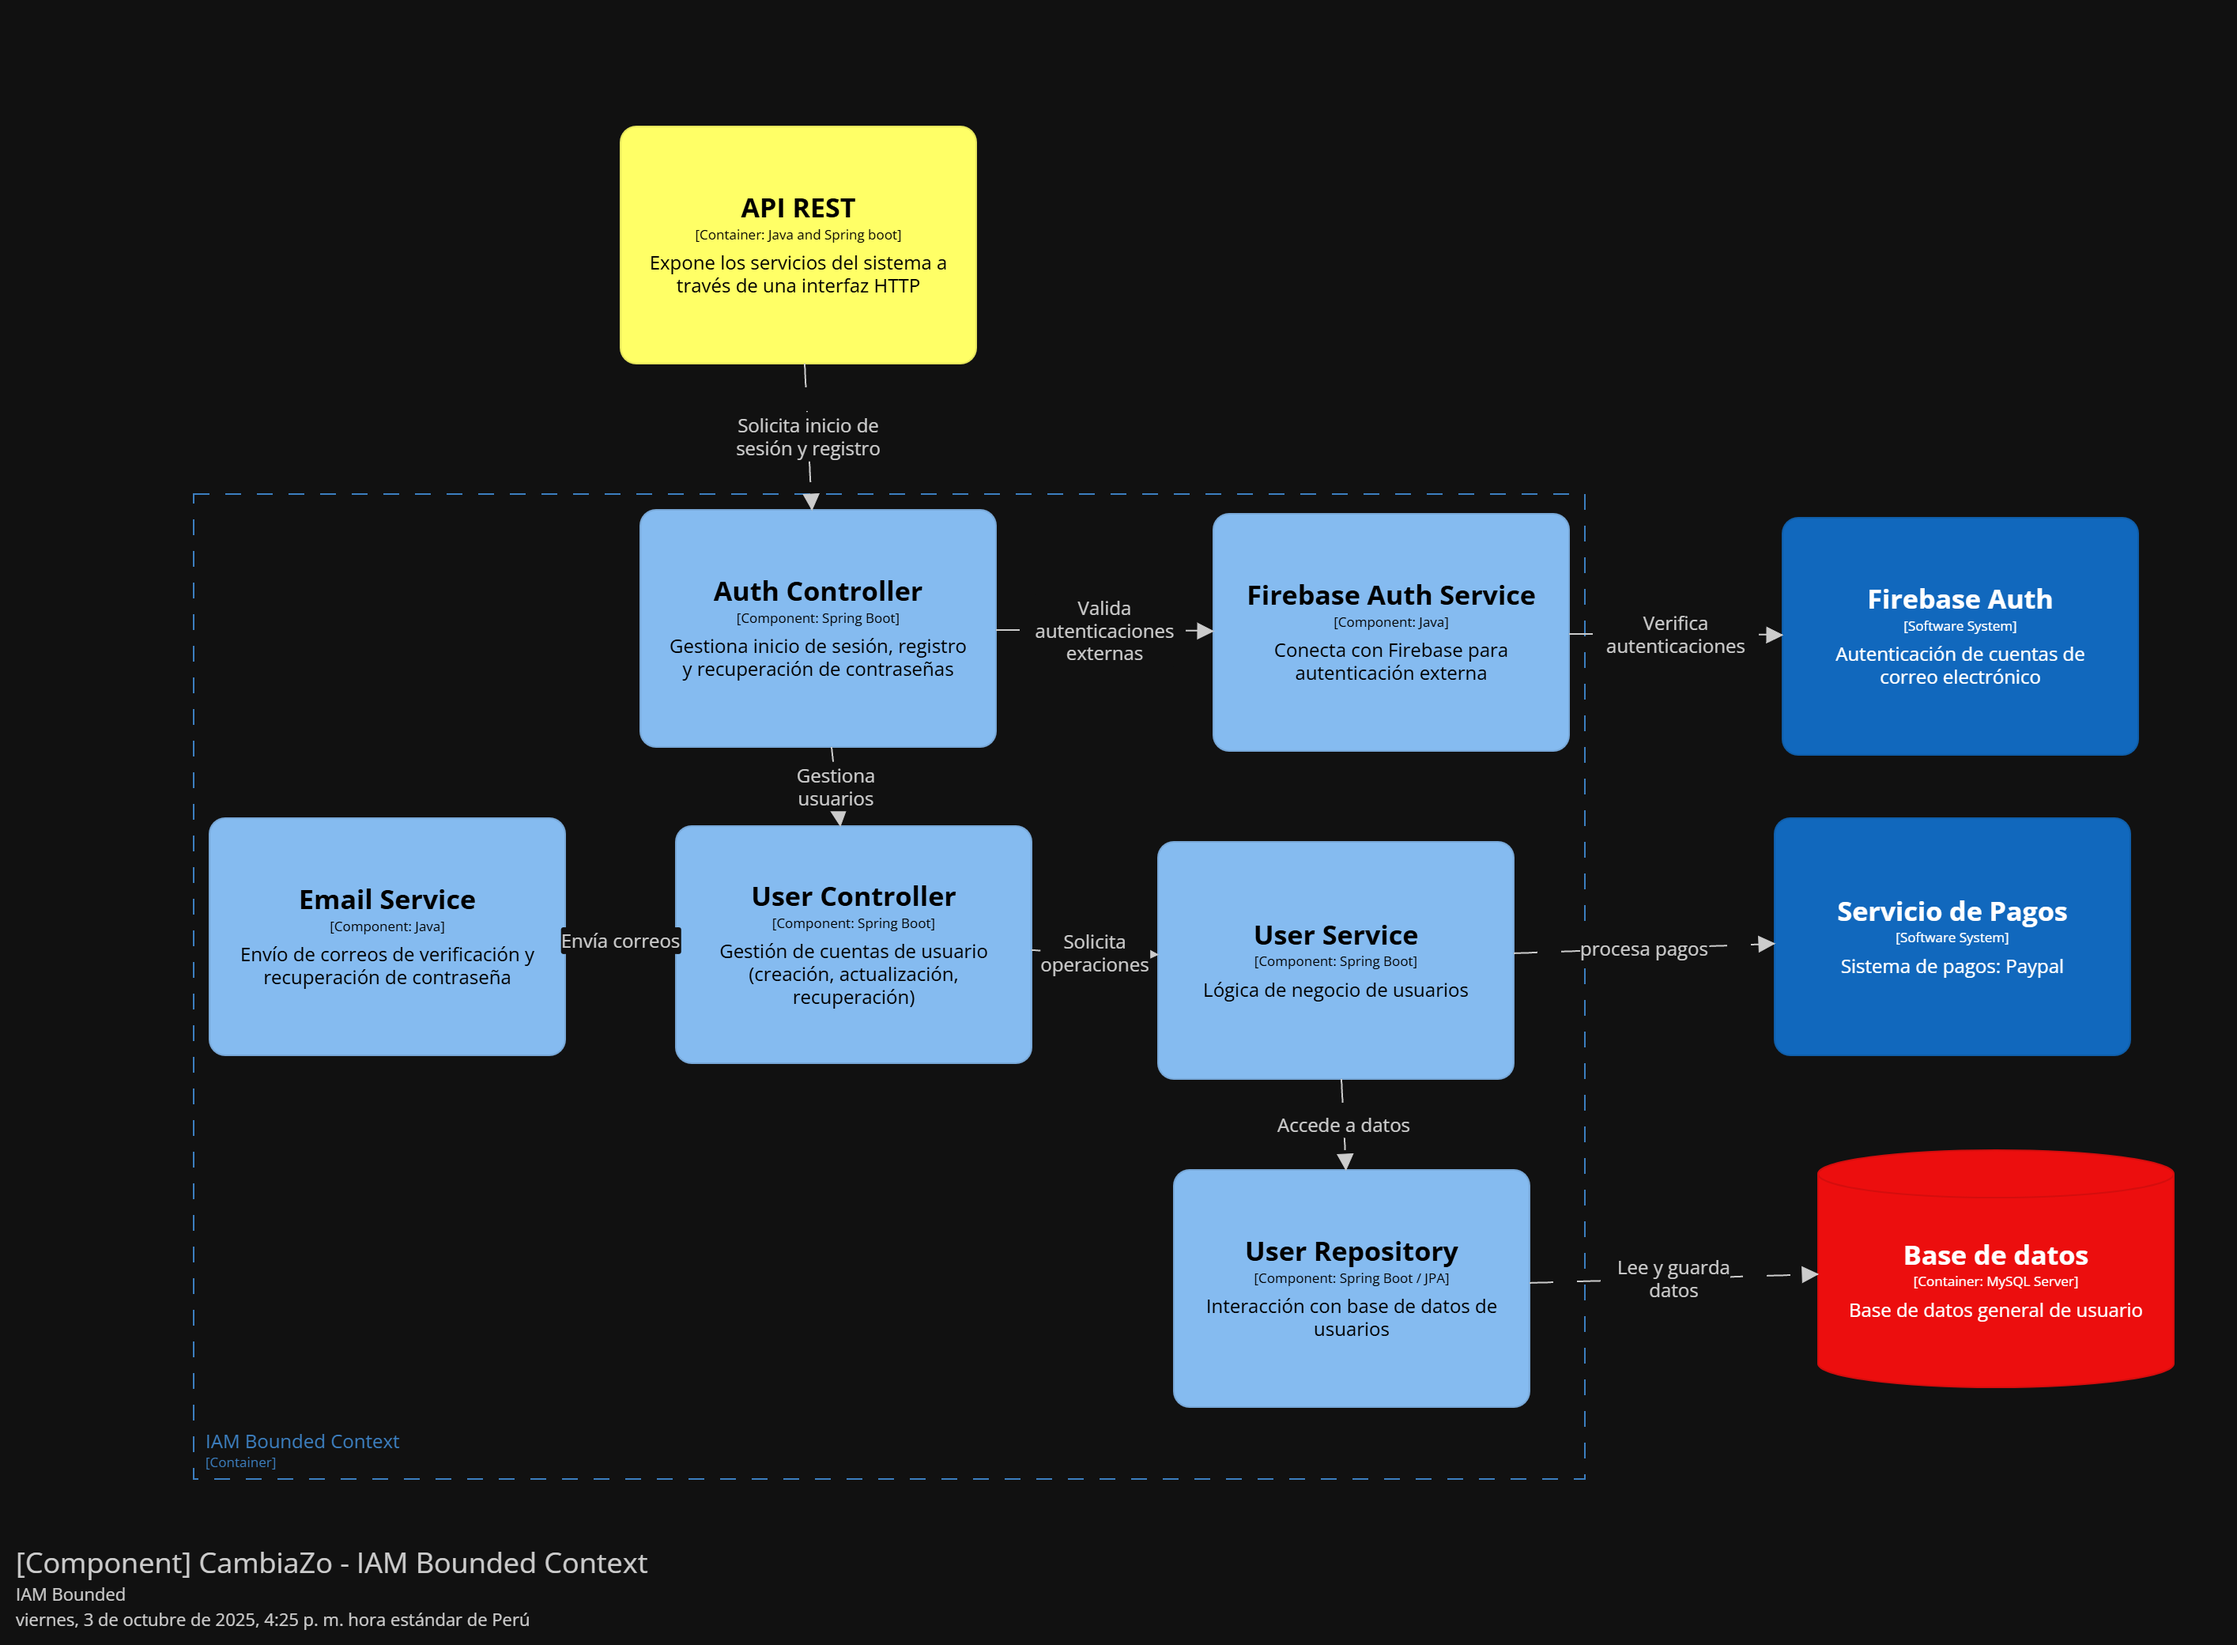
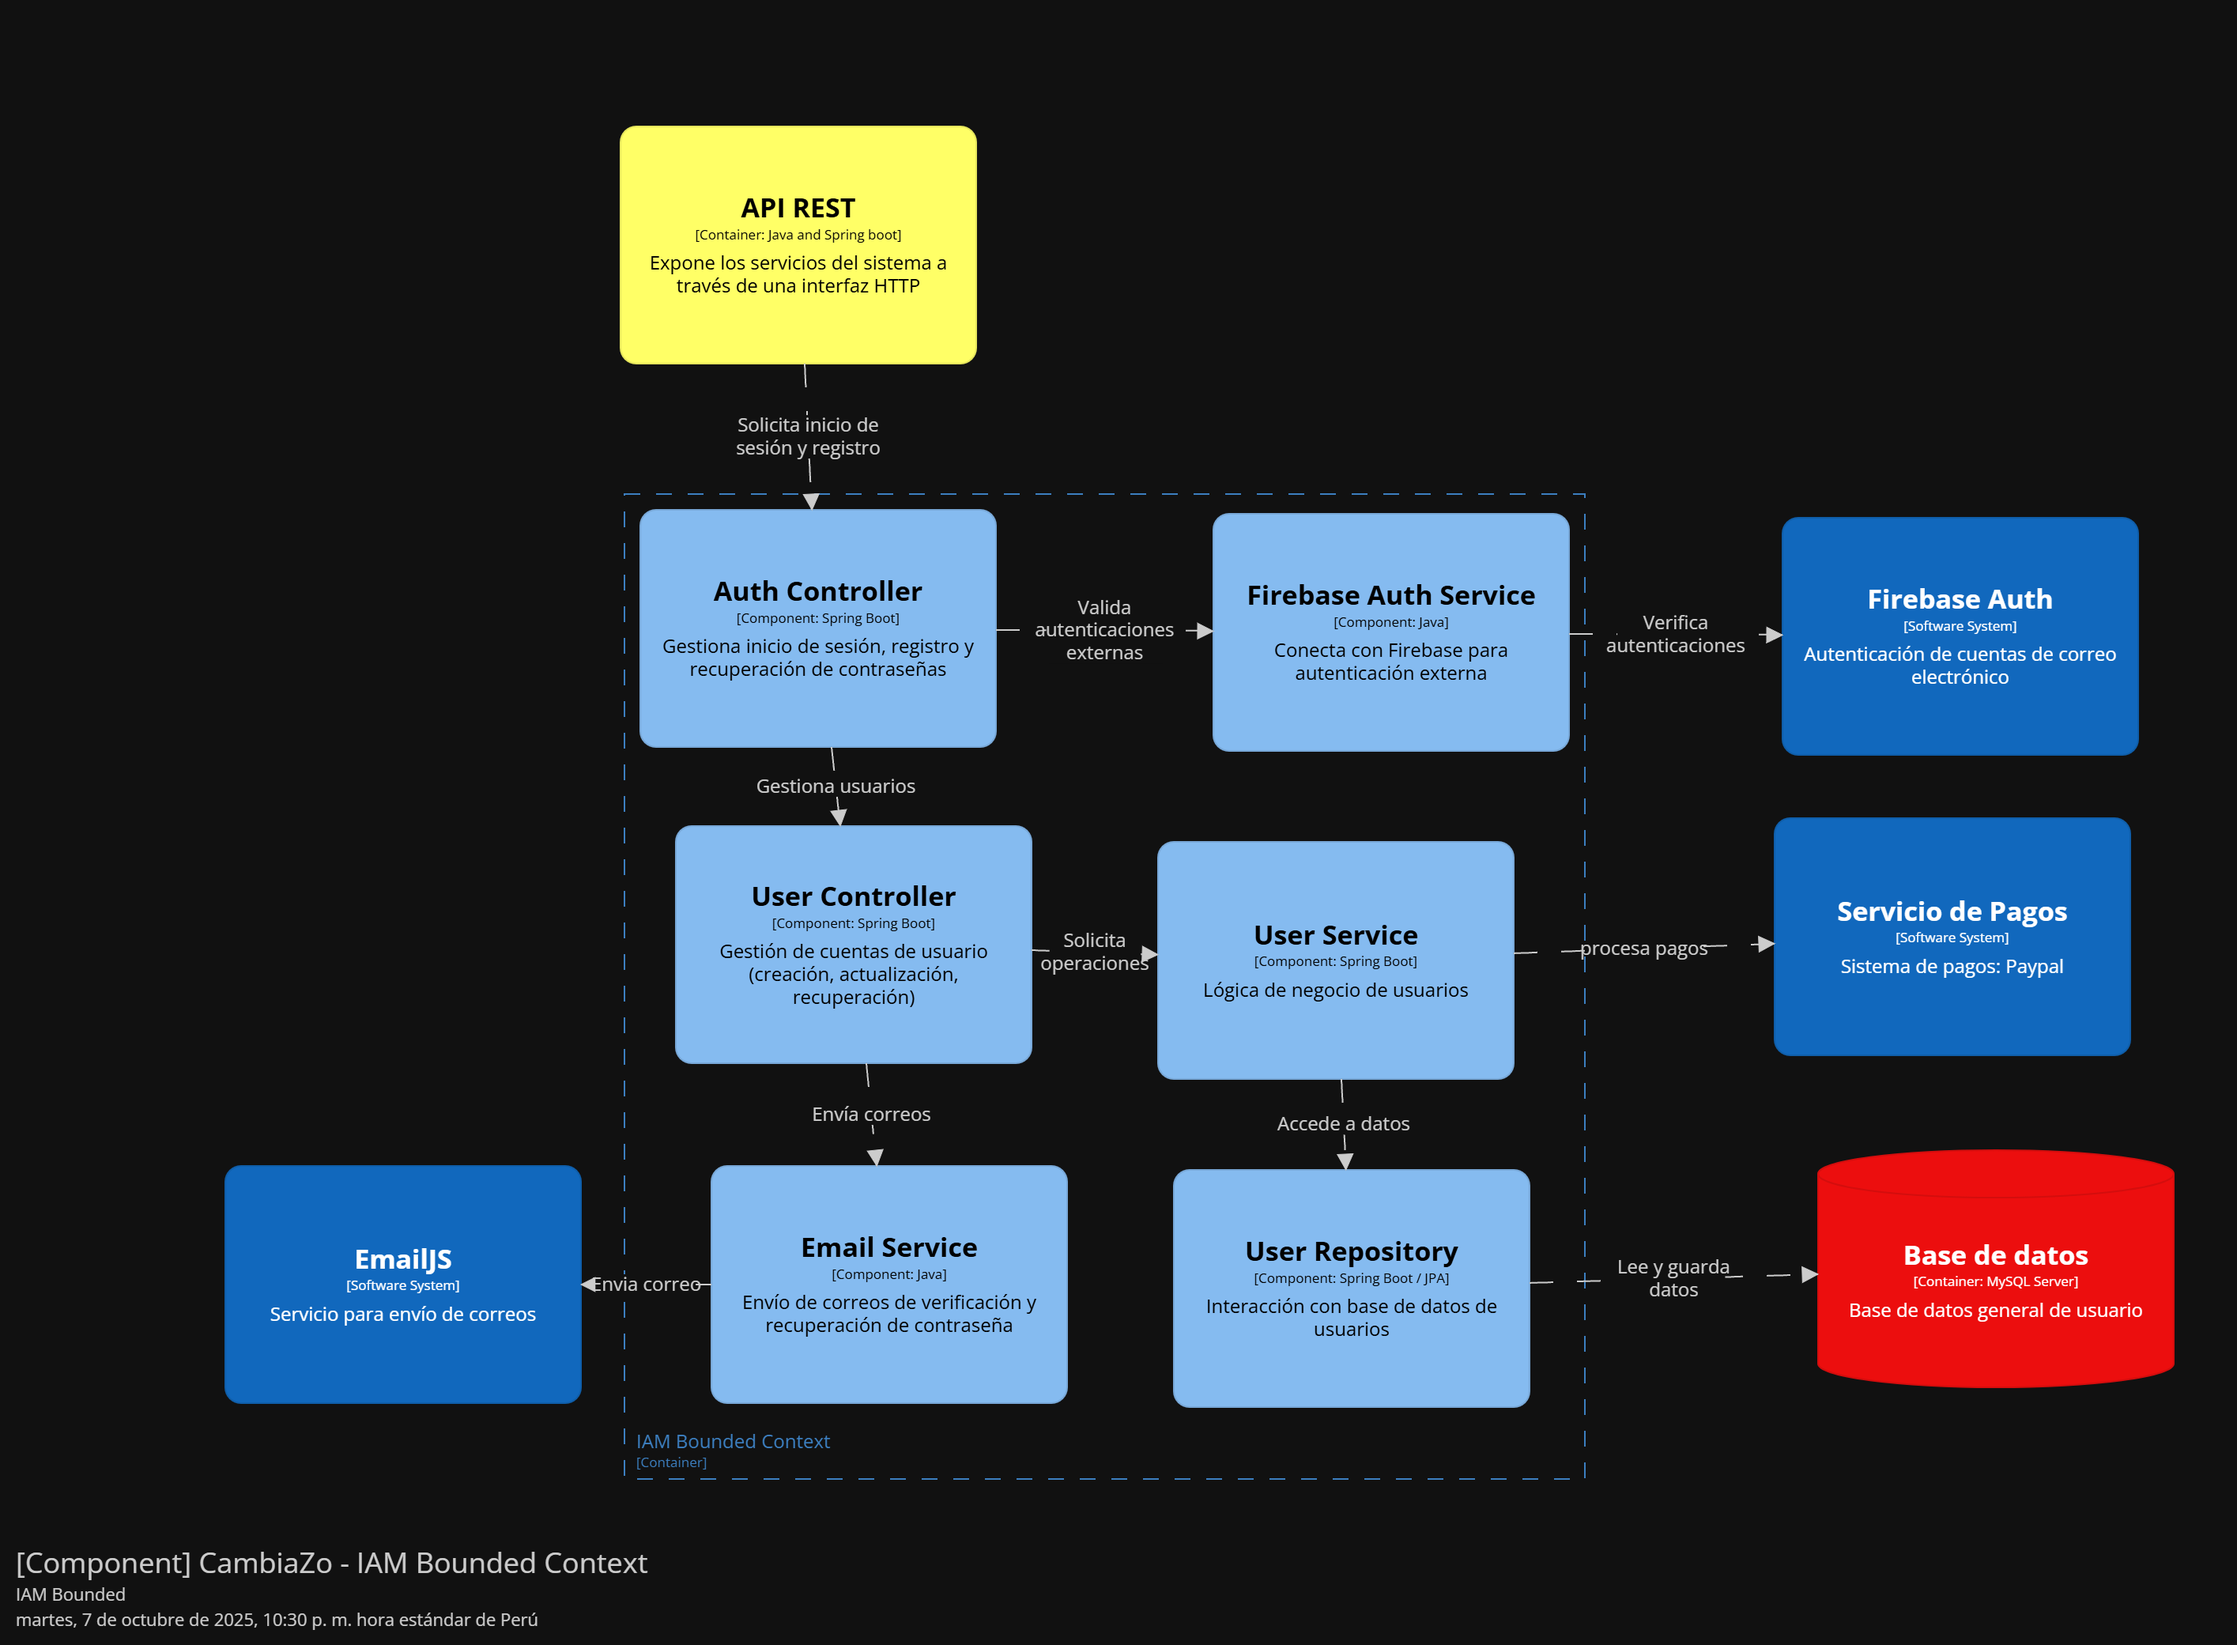
docs: Updated IAM component diagram and report TOC

diff --git a/TP/upc-pre-202502-1asi0728-7281-techzo-report.md b/TP/upc-pre-202502-1asi0728-7281-techzo-report.md
@@ -146,9 +146,36 @@
     - [4.3.2. Software Architecture Context Level Diagrams](#432-software-architecture-context-level-diagrams)  
     - [4.3.3. Software Architecture Container Level Diagrams](#433-software-architecture-container-level-diagrams)  
     - [4.3.4. Software Architecture Deployment Diagrams](#434-software-architecture-deployment-diagrams)
-
-- [Capítulo V: Tactical-Level Software Design]()
-
+    
+- [Capítulo V: Tactical-Level Software Design](#capítulo-v-tactical-level-software-design)
+  - [5.1 Bounded Context: Donation](#51-bounded-context-donation)
+    - [5.1.1 Domain Layer](#511-domain-layer)
+    - [5.1.2 Interface Layer](#512-interface-layer)
+    - [5.1.3 Application Layer](#513-application-layer)
+    - [5.1.4 Infrastructure Layer](#514-infrastructure-layer)
+    - [5.1.6 Bounded Context Software Architecture Component Level Diagrams](#516-bounded-context-software-architecture-component-level-diagrams)
+    - [5.1.7 Bounded Context Software Architecture Code Level Diagrams](#517-bounded-context-software-architecture-code-level-diagrams)
+      - [5.1.7.1 Bounded Context Domain Layer Class Diagrams](#5171-bounded-context-domain-layer-class-diagrams)
+      - [5.1.7.2 Bounded Context Database Design Diagram](#5172-bounded-context-database-design-diagram)
+  - [5.2 Bounded Context: Exchange](#52-bounded-context-exchange)
+    - [5.2.1 Domain Layer](#521-domain-layer)
+    - [5.2.2 Interface Layer](#522-interface-layer)
+    - [5.2.3 Application Layer](#523-application-layer)
+    - [5.2.4 Infrastructure Layer](#524-infrastructure-layer)
+    - [5.2.6 Bounded Context Software Architecture Component Level Diagrams](#526-bounded-context-software-architecture-component-level-diagrams)
+    - [5.2.7 Bounded Context Software Architecture Code Level Diagrams](#527-bounded-context-software-architecture-code-level-diagrams)
+      - [5.2.7.1 Bounded Context Domain Layer Class Diagrams](#5271-bounded-context-domain-layer-class-diagrams)
+      - [5.2.7.2 Bounded Context Database Design Diagram](#5272-bounded-context-database-design-diagram)
+  - [5.3 Bounded Context: IAM](#53-bounded-context-iam)
+    - [5.3.1 Domain Layer](#531-domain-layer)
+    - [5.3.2 Interface Layer](#532-interface-layer)
+    - [5.3.3 Application Layer](#533-application-layer)
+    - [5.3.4 Infrastructure Layer](#534-infrastructure-layer)
+    - [5.3.6 Bounded Context Software Architecture Component Level Diagrams](#536-bounded-context-software-architecture-component-level-diagrams)
+    - [5.3.7 Bounded Context Software Architecture Code Level Diagrams](#537-bounded-context-software-architecture-code-level-diagrams)
+      - [5.3.7.1 Bounded Context Domain Layer Class Diagrams](#5371-bounded-context-domain-layer-class-diagrams)
+      - [5.3.7.2 Bounded Context Database Design Diagram](#5372-bounded-context-database-design-diagram)
+      
 - [Capítulo VI: Solution UX Design](#capítulo-vi-solution-ux-design)
   - [6.1. Style Guidelines](#61-style-guidelines)
     - [6.1.1. General Style Guidelines](#611-general-style-guidelines)
